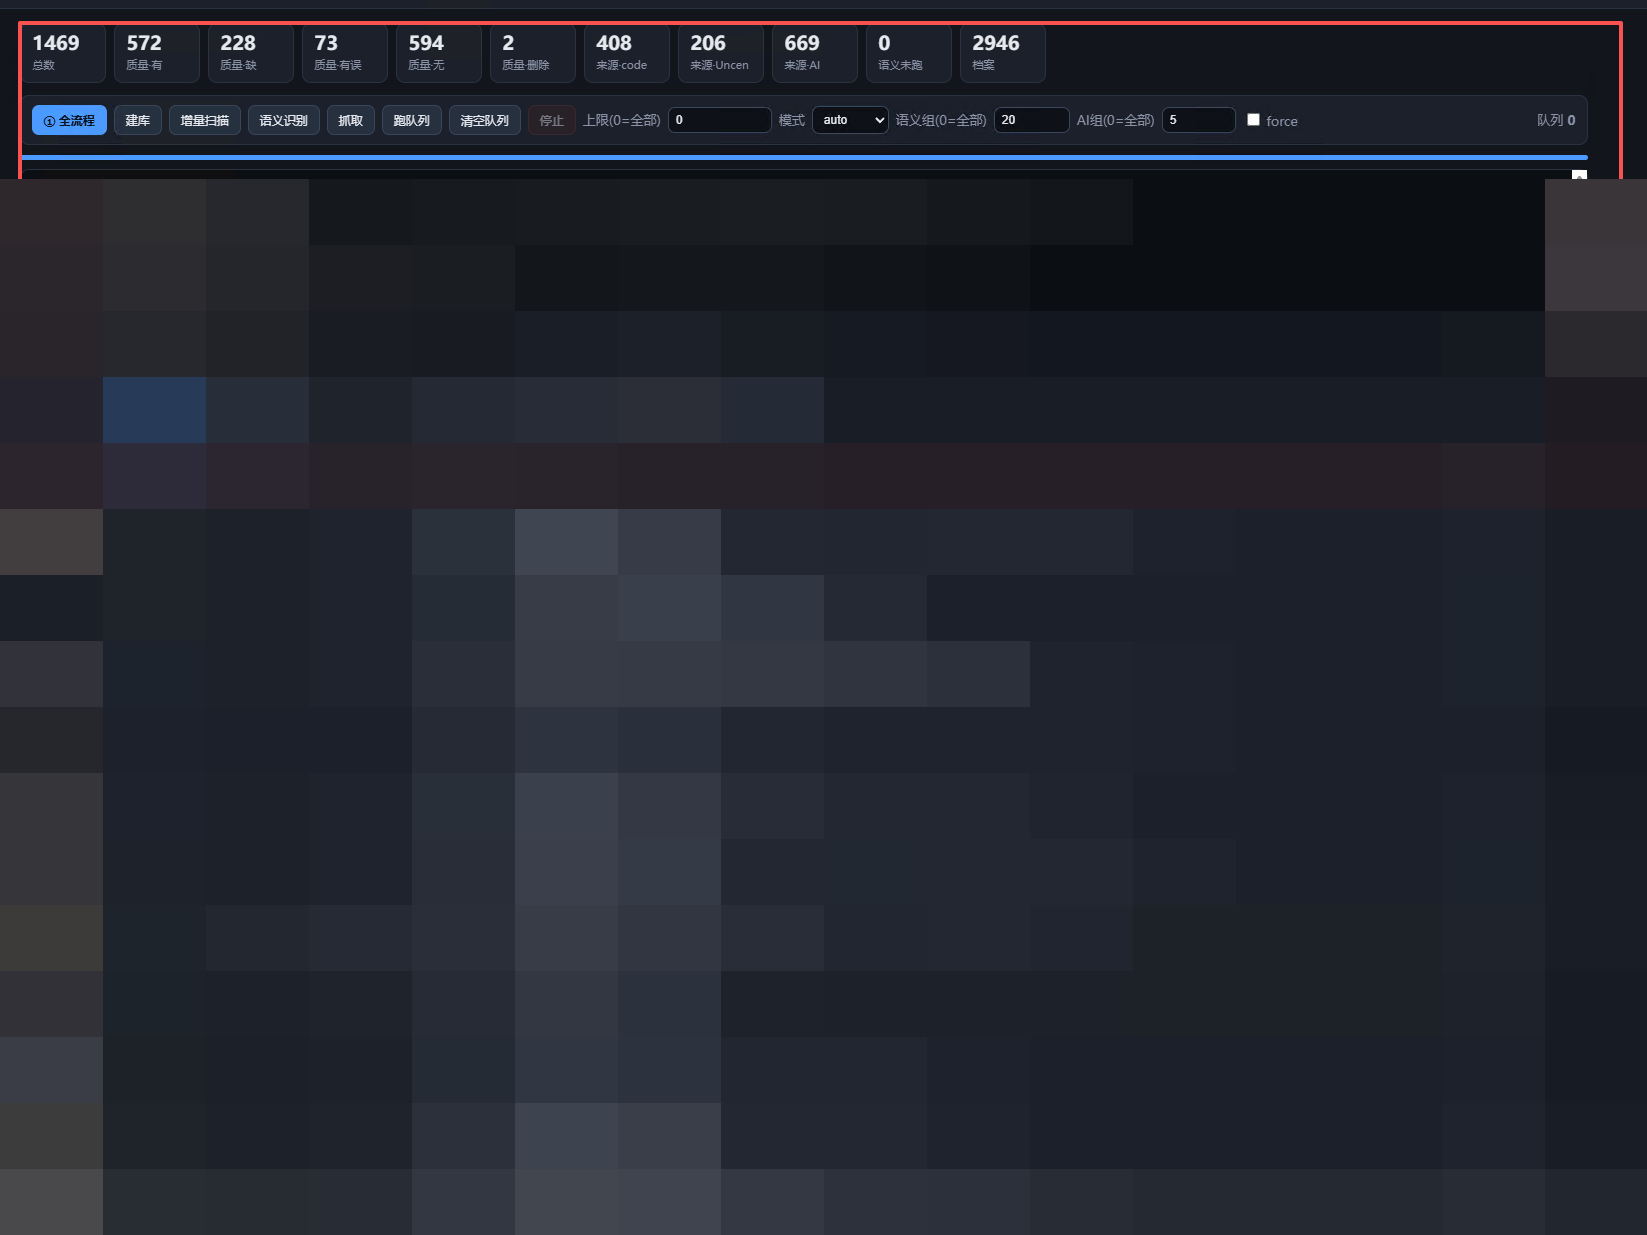
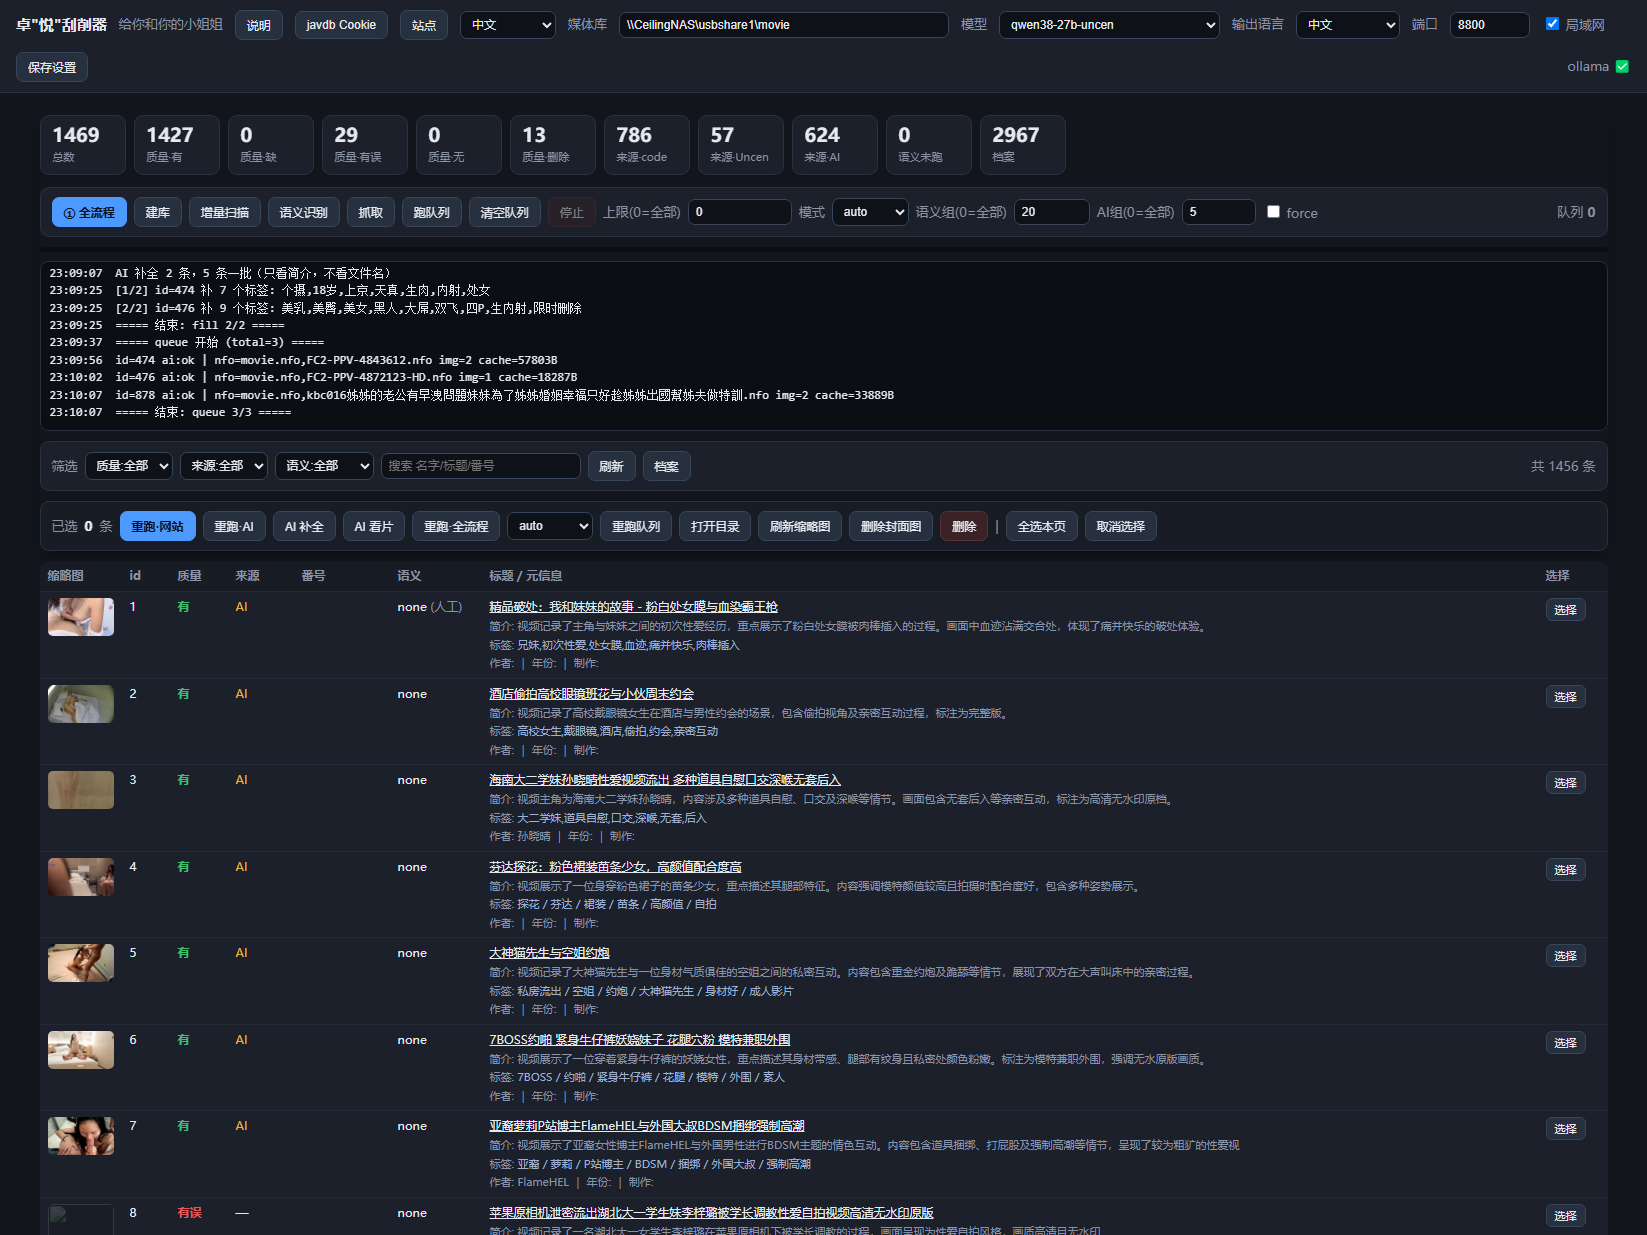
docs: 换回真实界面截图（去掉像素化遮挡）
- docs/ui-01-main.png：重新截取完整主界面 —— 顶部设置行、统计卡、控制条、任务日志、
  筛选栏、表格（缩略图 / 质量 / 来源 / 番号 / 语义 / 标题与元信息）全部可见
- docs/ui-02-stats.png：补回「质量与来源统计」（此前被从 docs 删除）
- docs/ui-03-log.png：重新截取「控制条 + 任务日志 + 筛选栏」
- README.md / README.en.md：删掉「截图中的表格内容已像素化处理」的说明，
  改为「真实界面截图（1469 条媒体库实况）」；并补上统计图引用

旧图已备份到 trash/docs_old/

diff --git a/README.md b/README.md
@@ -13,13 +13,15 @@
 
 ![主界面（顶部控制条 / 统计卡 / 质量与语义分布 / 端口与局域网设置）](docs/ui-01-main.png)
 
+![质量与来源统计（真实媒体库 1469 条）](docs/ui-02-stats.png)
+
 ![任务日志与筛选](docs/ui-03-log.png)
 
 <sub>Jellyfin 侧记得打开「保存图像路径在NFO文件」：</sub>
 
 ![Jellyfin NFO 设置](docs/jellyfin-nfo.png)
 
-> 截图中的表格内容已**像素化处理**。
+> 以上均为**真实界面截图**（对 1469 条媒体库的实际运行状态，未做任何遮挡）。
 
 ---
 

diff --git a/README.en.md b/README.en.md
@@ -13,13 +13,15 @@
 
 ![Main UI (top control bar / stat cards / quality & semantic split / port & LAN settings)](docs/ui-01-main.png)
 
+![Quality / source statistics (real library, 1469 items)](docs/ui-02-stats.png)
+
 ![Job log and filters](docs/ui-03-log.png)
 
 <sub>On the Jellyfin side, enable "save image paths in the NFO file":</sub>
 
 ![Jellyfin NFO settings](docs/jellyfin-nfo.png)
 
-> Table contents in the screenshots are **pixelated** on purpose.
+> All screenshots are **the real UI** (running against a 1,469-item library; nothing masked).
 
 ---
 
